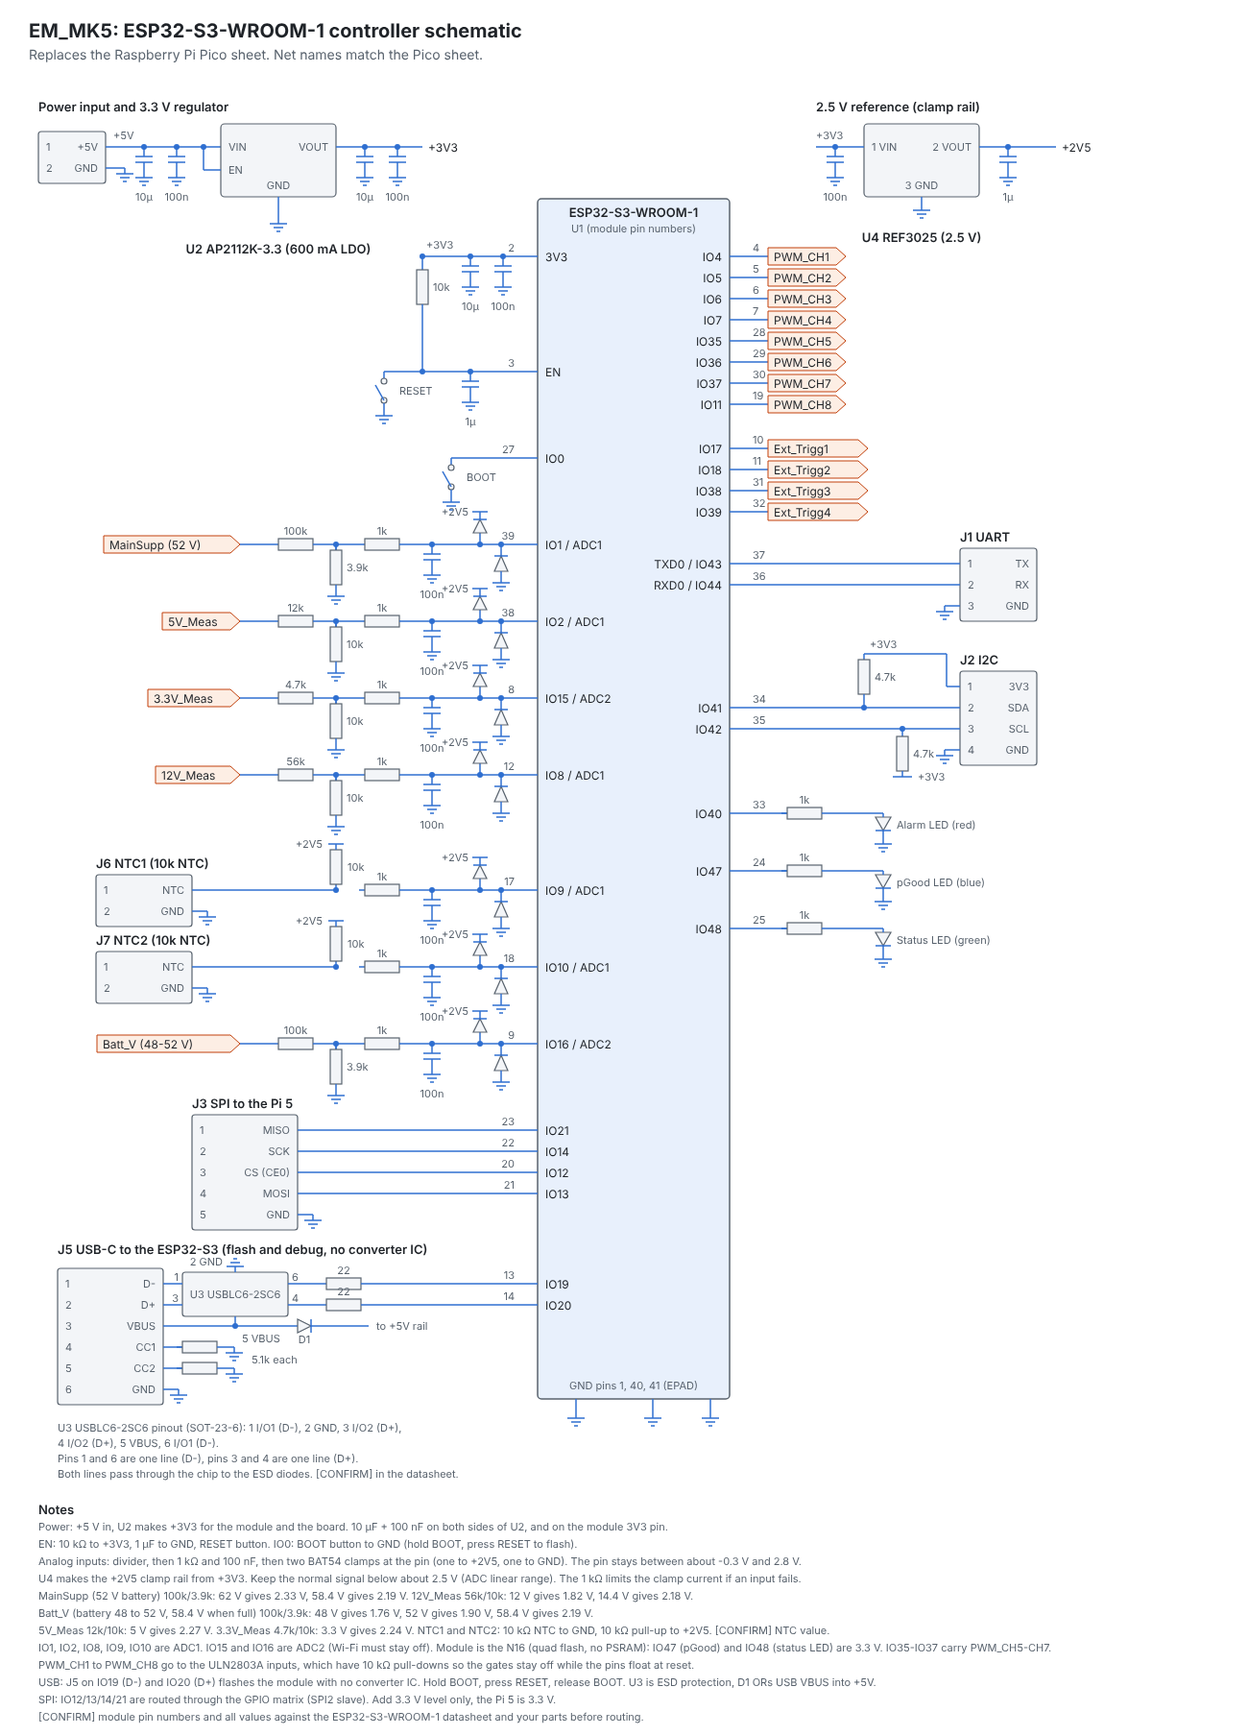
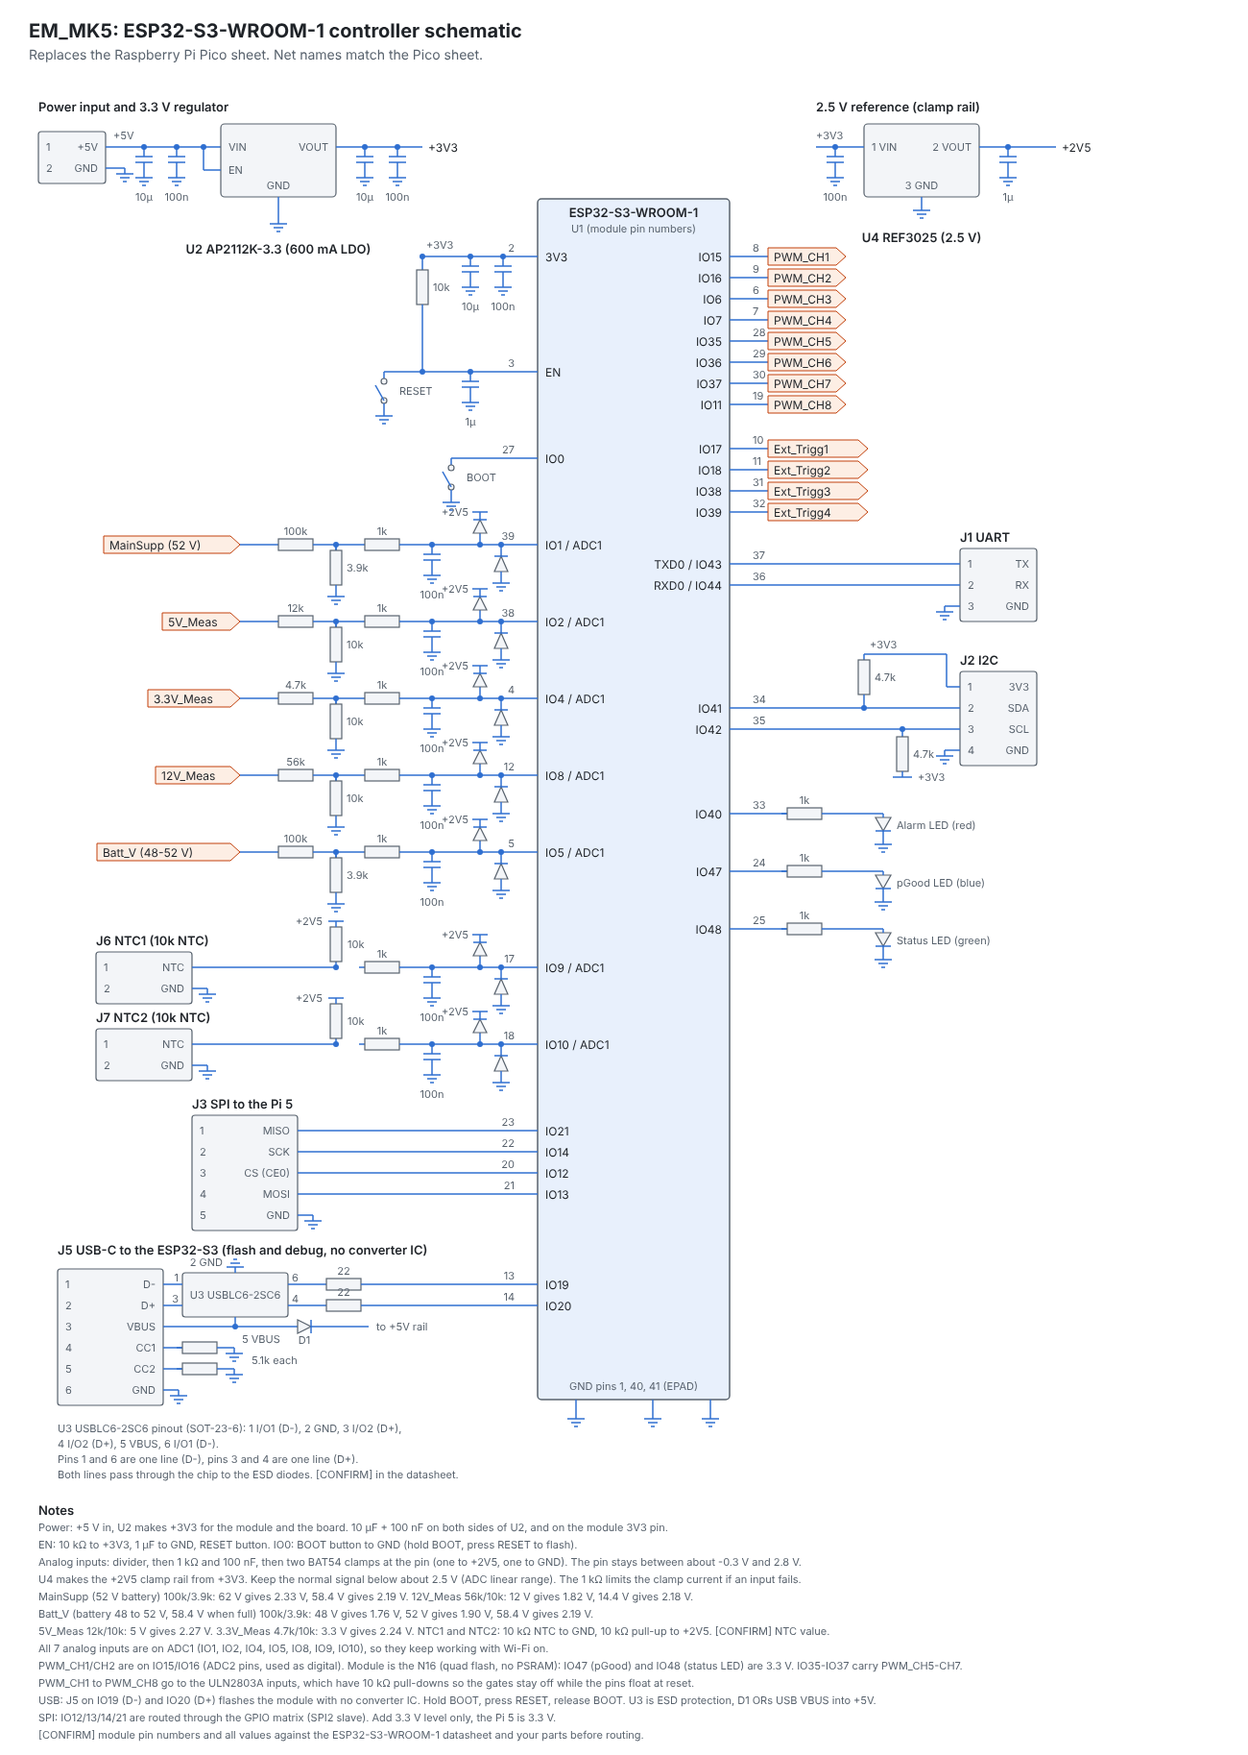
ESP32-S3: all analog inputs on ADC1; PWM_CH1/CH2 moved to IO15/IO16
Claude-Session: https://claude.ai/code/session_0174MNEmDaTV8DPD2QnVHENo

diff --git a/ESP32_S3_schematic.html b/ESP32_S3_schematic.html
@@ -8,7 +8,7 @@ svg{width:100%;max-width:1300px;height:auto;display:block;margin:0 auto}
 .c{stroke:var(--bd);stroke-width:1.2;fill:var(--box)}.m{stroke:var(--bd);stroke-width:1.5;fill:var(--mod)}
 .p{stroke:var(--pb);stroke-width:1;fill:var(--port)}
 .t{font-size:12px;fill:var(--t)}.s{font-size:11px;fill:var(--m)}.th{font-size:13px;font-weight:600;fill:var(--t)}.pt{font-size:12px;fill:var(--t)}
-</style></head><body><h1>EM_MK5: ESP32-S3-WROOM-1 controller schematic</h1><p class="d">Replaces the Raspberry Pi Pico sheet. Net names match the Pico sheet.</p><svg viewBox="0 0 1300 1730" role="img" aria-label="EM_MK5 ESP32-S3 controller schematic"><rect class="m" x="560" y="130" width="200" height="1250" rx="4"/>
+</style></head><body><h1>EM_MK5: ESP32-S3-WROOM-1 controller schematic</h1><p class="d">Replaces the Raspberry Pi Pico sheet. Net names match the Pico sheet.</p><svg viewBox="0 0 1300 1750" role="img" aria-label="EM_MK5 ESP32-S3 controller schematic"><rect class="m" x="560" y="130" width="200" height="1250" rx="4"/>
 <text class="th" x="660.0" y="144" text-anchor="middle" dominant-baseline="central">ESP32-S3-WROOM-1</text>
 <text class="s" x="660.0" y="161" text-anchor="middle" dominant-baseline="central">U1 (module pin numbers)</text>
 <line class="w" x1="600" y1="1380" x2="600" y2="1394"/>
@@ -307,8 +307,8 @@ svg{width:100%;max-width:1300px;height:auto;display:block;margin:0 auto}
 <line class="w" x1="492" y1="536" x2="508" y2="536"/>
 <text class="s" x="488" y="536" text-anchor="end" dominant-baseline="central">+2V5</text>
 <line class="w" x1="540" y1="650" x2="560" y2="650"/>
-<text class="t" x="568" y="650" text-anchor="start" dominant-baseline="central">IO15 / ADC2</text>
-<text class="s" x="536" y="641" text-anchor="end" dominant-baseline="central">8</text>
+<text class="t" x="568" y="650" text-anchor="start" dominant-baseline="central">IO4 / ADC1</text>
+<text class="s" x="536" y="641" text-anchor="end" dominant-baseline="central">4</text>
 <polygon class="p" points="154,641 240,641 250,650 240,659 154,659"/>
 <text class="pt" x="160" y="650" text-anchor="start" dominant-baseline="central">3.3V_Meas</text>
 <line class="w" x1="250" y1="650" x2="284" y2="650"/>
@@ -410,64 +410,63 @@ svg{width:100%;max-width:1300px;height:auto;display:block;margin:0 auto}
 <line class="w" x1="500" y1="704" x2="500" y2="696"/>
 <line class="w" x1="492" y1="696" x2="508" y2="696"/>
 <text class="s" x="488" y="696" text-anchor="end" dominant-baseline="central">+2V5</text>
-<line class="w" x1="540" y1="850" x2="560" y2="850"/>
-<text class="t" x="568" y="850" text-anchor="start" dominant-baseline="central">IO9 / ADC1</text>
-<text class="s" x="536" y="841" text-anchor="end" dominant-baseline="central">17</text>
-<rect class="c" x="100" y="834" width="100" height="54" rx="3"/>
-<text class="th" x="100" y="822" text-anchor="start" dominant-baseline="central">J6 NTC1 (10k NTC)</text>
-<text class="s" x="108" y="850" text-anchor="start" dominant-baseline="central">1</text>
-<text class="s" x="192" y="850" text-anchor="end" dominant-baseline="central">NTC</text>
-<text class="s" x="108" y="872" text-anchor="start" dominant-baseline="central">2</text>
-<text class="s" x="192" y="872" text-anchor="end" dominant-baseline="central">GND</text>
-<line class="w" x1="200" y1="850" x2="350" y2="850"/>
-<circle class="d" cx="350" cy="850" r="3"/>
-<line class="w" x1="200" y1="872" x2="216" y2="872"/>
-<line class="w" x1="216" y1="872" x2="216" y2="878"/>
-<line class="w" x1="207" y1="878" x2="225" y2="878"/>
-<line class="w" x1="211" y1="882" x2="221" y2="882"/>
-<line class="w" x1="214" y1="886" x2="218" y2="886"/>
-<line class="w" x1="350" y1="850" x2="350" y2="844"/>
-<rect class="c" x="344" y="808" width="12" height="36"/>
-<line class="w" x1="350" y1="808" x2="350" y2="802"/>
-<line class="w" x1="342" y1="802" x2="358" y2="802"/>
-<text class="s" x="336" y="802" text-anchor="end" dominant-baseline="central">+2V5</text>
-<text class="s" x="362" y="826" text-anchor="start" dominant-baseline="central">10k</text>
-<line class="w" x1="374" y1="850" x2="380" y2="850"/>
-<rect class="c" x="380" y="844" width="36" height="12"/>
-<line class="w" x1="416" y1="850" x2="422" y2="850"/>
-<text class="s" x="398" y="836" text-anchor="middle" dominant-baseline="central">1k</text>
-<line class="w" x1="422" y1="850" x2="540" y2="850"/>
-<circle class="d" cx="450" cy="850" r="3"/>
-<line class="w" x1="450" y1="850" x2="450" y2="860"/>
-<line class="w" x1="441" y1="860" x2="459" y2="860"/>
-<line class="w" x1="441" y1="866" x2="459" y2="866"/>
-<line class="w" x1="450" y1="866" x2="450" y2="876"/>
-<line class="w" x1="450" y1="876" x2="450" y2="882"/>
-<line class="w" x1="441" y1="882" x2="459" y2="882"/>
-<line class="w" x1="445" y1="886" x2="455" y2="886"/>
-<line class="w" x1="448" y1="890" x2="452" y2="890"/>
-<text class="s" x="450" y="902" text-anchor="middle" dominant-baseline="central">100n</text>
-<circle class="d" cx="500" cy="850" r="3"/>
-<circle class="d" cx="522" cy="850" r="3"/>
-<line class="w" x1="522" y1="850" x2="522" y2="862"/>
-<polygon class="c" points="515,878 529,878 522,862"/>
-<line class="w" x1="515" y1="862" x2="529" y2="862"/>
-<line class="w" x1="522" y1="878" x2="522" y2="884"/>
-<line class="w" x1="522" y1="884" x2="522" y2="890"/>
-<line class="w" x1="513" y1="890" x2="531" y2="890"/>
-<line class="w" x1="517" y1="894" x2="527" y2="894"/>
-<line class="w" x1="520" y1="898" x2="524" y2="898"/>
-<line class="w" x1="500" y1="850" x2="500" y2="838"/>
-<polygon class="c" points="493,838 507,838 500,824"/>
-<line class="w" x1="493" y1="824" x2="507" y2="824"/>
-<line class="w" x1="500" y1="824" x2="500" y2="816"/>
-<line class="w" x1="492" y1="816" x2="508" y2="816"/>
-<text class="s" x="488" y="816" text-anchor="end" dominant-baseline="central">+2V5</text>
+<line class="w" x1="540" y1="810" x2="560" y2="810"/>
+<text class="t" x="568" y="810" text-anchor="start" dominant-baseline="central">IO5 / ADC1</text>
+<text class="s" x="536" y="801" text-anchor="end" dominant-baseline="central">5</text>
+<polygon class="p" points="101,801 240,801 250,810 240,819 101,819"/>
+<text class="pt" x="107" y="810" text-anchor="start" dominant-baseline="central">Batt_V (48-52 V)</text>
+<line class="w" x1="250" y1="810" x2="284" y2="810"/>
+<line class="w" x1="284" y1="810" x2="290" y2="810"/>
+<rect class="c" x="290" y="804" width="36" height="12"/>
+<line class="w" x1="326" y1="810" x2="332" y2="810"/>
+<text class="s" x="308" y="796" text-anchor="middle" dominant-baseline="central">100k</text>
+<line class="w" x1="332" y1="810" x2="374" y2="810"/>
+<circle class="d" cx="350" cy="810" r="3"/>
+<line class="w" x1="350" y1="810" x2="350" y2="816"/>
+<line class="w" x1="350" y1="810" x2="350" y2="816"/>
+<rect class="c" x="344" y="816" width="12" height="36"/>
+<line class="w" x1="350" y1="852" x2="350" y2="858"/>
+<text class="s" x="361" y="834" text-anchor="start" dominant-baseline="central">3.9k</text>
+<line class="w" x1="350" y1="858" x2="350" y2="864"/>
+<line class="w" x1="341" y1="864" x2="359" y2="864"/>
+<line class="w" x1="345" y1="868" x2="355" y2="868"/>
+<line class="w" x1="348" y1="872" x2="352" y2="872"/>
+<line class="w" x1="374" y1="810" x2="380" y2="810"/>
+<rect class="c" x="380" y="804" width="36" height="12"/>
+<line class="w" x1="416" y1="810" x2="422" y2="810"/>
+<text class="s" x="398" y="796" text-anchor="middle" dominant-baseline="central">1k</text>
+<line class="w" x1="422" y1="810" x2="540" y2="810"/>
+<circle class="d" cx="450" cy="810" r="3"/>
+<line class="w" x1="450" y1="810" x2="450" y2="820"/>
+<line class="w" x1="441" y1="820" x2="459" y2="820"/>
+<line class="w" x1="441" y1="826" x2="459" y2="826"/>
+<line class="w" x1="450" y1="826" x2="450" y2="836"/>
+<line class="w" x1="450" y1="836" x2="450" y2="842"/>
+<line class="w" x1="441" y1="842" x2="459" y2="842"/>
+<line class="w" x1="445" y1="846" x2="455" y2="846"/>
+<line class="w" x1="448" y1="850" x2="452" y2="850"/>
+<text class="s" x="450" y="862" text-anchor="middle" dominant-baseline="central">100n</text>
+<circle class="d" cx="500" cy="810" r="3"/>
+<circle class="d" cx="522" cy="810" r="3"/>
+<line class="w" x1="522" y1="810" x2="522" y2="822"/>
+<polygon class="c" points="515,838 529,838 522,822"/>
+<line class="w" x1="515" y1="822" x2="529" y2="822"/>
+<line class="w" x1="522" y1="838" x2="522" y2="844"/>
+<line class="w" x1="522" y1="844" x2="522" y2="850"/>
+<line class="w" x1="513" y1="850" x2="531" y2="850"/>
+<line class="w" x1="517" y1="854" x2="527" y2="854"/>
+<line class="w" x1="520" y1="858" x2="524" y2="858"/>
+<line class="w" x1="500" y1="810" x2="500" y2="798"/>
+<polygon class="c" points="493,798 507,798 500,784"/>
+<line class="w" x1="493" y1="784" x2="507" y2="784"/>
+<line class="w" x1="500" y1="784" x2="500" y2="776"/>
+<line class="w" x1="492" y1="776" x2="508" y2="776"/>
+<text class="s" x="488" y="776" text-anchor="end" dominant-baseline="central">+2V5</text>
 <line class="w" x1="540" y1="930" x2="560" y2="930"/>
-<text class="t" x="568" y="930" text-anchor="start" dominant-baseline="central">IO10 / ADC1</text>
-<text class="s" x="536" y="921" text-anchor="end" dominant-baseline="central">18</text>
+<text class="t" x="568" y="930" text-anchor="start" dominant-baseline="central">IO9 / ADC1</text>
+<text class="s" x="536" y="921" text-anchor="end" dominant-baseline="central">17</text>
 <rect class="c" x="100" y="914" width="100" height="54" rx="3"/>
-<text class="th" x="100" y="902" text-anchor="start" dominant-baseline="central">J7 NTC2 (10k NTC)</text>
+<text class="th" x="100" y="902" text-anchor="start" dominant-baseline="central">J6 NTC1 (10k NTC)</text>
 <text class="s" x="108" y="930" text-anchor="start" dominant-baseline="central">1</text>
 <text class="s" x="192" y="930" text-anchor="end" dominant-baseline="central">NTC</text>
 <text class="s" x="108" y="952" text-anchor="start" dominant-baseline="central">2</text>
@@ -517,26 +516,27 @@ svg{width:100%;max-width:1300px;height:auto;display:block;margin:0 auto}
 <line class="w" x1="492" y1="896" x2="508" y2="896"/>
 <text class="s" x="488" y="896" text-anchor="end" dominant-baseline="central">+2V5</text>
 <line class="w" x1="540" y1="1010" x2="560" y2="1010"/>
-<text class="t" x="568" y="1010" text-anchor="start" dominant-baseline="central">IO16 / ADC2</text>
-<text class="s" x="536" y="1001" text-anchor="end" dominant-baseline="central">9</text>
-<polygon class="p" points="101,1001 240,1001 250,1010 240,1019 101,1019"/>
-<text class="pt" x="107" y="1010" text-anchor="start" dominant-baseline="central">Batt_V (48-52 V)</text>
-<line class="w" x1="250" y1="1010" x2="284" y2="1010"/>
-<line class="w" x1="284" y1="1010" x2="290" y2="1010"/>
-<rect class="c" x="290" y="1004" width="36" height="12"/>
-<line class="w" x1="326" y1="1010" x2="332" y2="1010"/>
-<text class="s" x="308" y="996" text-anchor="middle" dominant-baseline="central">100k</text>
-<line class="w" x1="332" y1="1010" x2="374" y2="1010"/>
+<text class="t" x="568" y="1010" text-anchor="start" dominant-baseline="central">IO10 / ADC1</text>
+<text class="s" x="536" y="1001" text-anchor="end" dominant-baseline="central">18</text>
+<rect class="c" x="100" y="994" width="100" height="54" rx="3"/>
+<text class="th" x="100" y="982" text-anchor="start" dominant-baseline="central">J7 NTC2 (10k NTC)</text>
+<text class="s" x="108" y="1010" text-anchor="start" dominant-baseline="central">1</text>
+<text class="s" x="192" y="1010" text-anchor="end" dominant-baseline="central">NTC</text>
+<text class="s" x="108" y="1032" text-anchor="start" dominant-baseline="central">2</text>
+<text class="s" x="192" y="1032" text-anchor="end" dominant-baseline="central">GND</text>
+<line class="w" x1="200" y1="1010" x2="350" y2="1010"/>
 <circle class="d" cx="350" cy="1010" r="3"/>
-<line class="w" x1="350" y1="1010" x2="350" y2="1016"/>
-<line class="w" x1="350" y1="1010" x2="350" y2="1016"/>
-<rect class="c" x="344" y="1016" width="12" height="36"/>
-<line class="w" x1="350" y1="1052" x2="350" y2="1058"/>
-<text class="s" x="361" y="1034" text-anchor="start" dominant-baseline="central">3.9k</text>
-<line class="w" x1="350" y1="1058" x2="350" y2="1064"/>
-<line class="w" x1="341" y1="1064" x2="359" y2="1064"/>
-<line class="w" x1="345" y1="1068" x2="355" y2="1068"/>
-<line class="w" x1="348" y1="1072" x2="352" y2="1072"/>
+<line class="w" x1="200" y1="1032" x2="216" y2="1032"/>
+<line class="w" x1="216" y1="1032" x2="216" y2="1038"/>
+<line class="w" x1="207" y1="1038" x2="225" y2="1038"/>
+<line class="w" x1="211" y1="1042" x2="221" y2="1042"/>
+<line class="w" x1="214" y1="1046" x2="218" y2="1046"/>
+<line class="w" x1="350" y1="1010" x2="350" y2="1004"/>
+<rect class="c" x="344" y="968" width="12" height="36"/>
+<line class="w" x1="350" y1="968" x2="350" y2="962"/>
+<line class="w" x1="342" y1="962" x2="358" y2="962"/>
+<text class="s" x="336" y="962" text-anchor="end" dominant-baseline="central">+2V5</text>
+<text class="s" x="362" y="986" text-anchor="start" dominant-baseline="central">10k</text>
 <line class="w" x1="374" y1="1010" x2="380" y2="1010"/>
 <rect class="c" x="380" y="1004" width="36" height="12"/>
 <line class="w" x1="416" y1="1010" x2="422" y2="1010"/>
@@ -604,14 +604,14 @@ svg{width:100%;max-width:1300px;height:auto;display:block;margin:0 auto}
 <line class="w" x1="324" y1="912" x2="328" y2="912"/>
 </g>
 <line class="w" x1="760" y1="190" x2="780" y2="190"/>
-<text class="t" x="752" y="190" text-anchor="end" dominant-baseline="central">IO4</text>
-<text class="s" x="784" y="181" text-anchor="start" dominant-baseline="central">4</text>
+<text class="t" x="752" y="190" text-anchor="end" dominant-baseline="central">IO15</text>
+<text class="s" x="784" y="181" text-anchor="start" dominant-baseline="central">8</text>
 <line class="w" x1="780" y1="190" x2="800" y2="190"/>
 <polygon class="p" points="800,181 871,181 881,190 871,199 800,199"/>
 <text class="pt" x="806" y="190" text-anchor="start" dominant-baseline="central">PWM_CH1</text>
 <line class="w" x1="760" y1="212" x2="780" y2="212"/>
-<text class="t" x="752" y="212" text-anchor="end" dominant-baseline="central">IO5</text>
-<text class="s" x="784" y="203" text-anchor="start" dominant-baseline="central">5</text>
+<text class="t" x="752" y="212" text-anchor="end" dominant-baseline="central">IO16</text>
+<text class="s" x="784" y="203" text-anchor="start" dominant-baseline="central">9</text>
 <line class="w" x1="780" y1="212" x2="800" y2="212"/>
 <polygon class="p" points="800,203 871,203 881,212 871,221 800,221"/>
 <text class="pt" x="806" y="212" text-anchor="start" dominant-baseline="central">PWM_CH2</text>
@@ -886,8 +886,9 @@ svg{width:100%;max-width:1300px;height:auto;display:block;margin:0 auto}
 <text class="s" x="40" y="1585" text-anchor="start" dominant-baseline="central">MainSupp (52 V battery) 100k/3.9k: 62 V gives 2.33 V, 58.4 V gives 2.19 V. 12V_Meas 56k/10k: 12 V gives 1.82 V, 14.4 V gives 2.18 V.</text>
 <text class="s" x="40" y="1603" text-anchor="start" dominant-baseline="central">Batt_V (battery 48 to 52 V, 58.4 V when full) 100k/3.9k: 48 V gives 1.76 V, 52 V gives 1.90 V, 58.4 V gives 2.19 V.</text>
 <text class="s" x="40" y="1621" text-anchor="start" dominant-baseline="central">5V_Meas 12k/10k: 5 V gives 2.27 V. 3.3V_Meas 4.7k/10k: 3.3 V gives 2.24 V. NTC1 and NTC2: 10 kΩ NTC to GND, 10 kΩ pull-up to +2V5. [CONFIRM] NTC value.</text>
-<text class="s" x="40" y="1639" text-anchor="start" dominant-baseline="central">IO1, IO2, IO8, IO9, IO10 are ADC1. IO15 and IO16 are ADC2 (Wi-Fi must stay off). Module is the N16 (quad flash, no PSRAM): IO47 (pGood) and IO48 (status LED) are 3.3 V. IO35-IO37 carry PWM_CH5-CH7.</text>
-<text class="s" x="40" y="1657" text-anchor="start" dominant-baseline="central">PWM_CH1 to PWM_CH8 go to the ULN2803A inputs, which have 10 kΩ pull-downs so the gates stay off while the pins float at reset.</text>
-<text class="s" x="40" y="1675" text-anchor="start" dominant-baseline="central">USB: J5 on IO19 (D-) and IO20 (D+) flashes the module with no converter IC. Hold BOOT, press RESET, release BOOT. U3 is ESD protection, D1 ORs USB VBUS into +5V.</text>
-<text class="s" x="40" y="1693" text-anchor="start" dominant-baseline="central">SPI: IO12/13/14/21 are routed through the GPIO matrix (SPI2 slave). Add 3.3 V level only, the Pi 5 is 3.3 V.</text>
-<text class="s" x="40" y="1711" text-anchor="start" dominant-baseline="central">[CONFIRM] module pin numbers and all values against the ESP32-S3-WROOM-1 datasheet and your parts before routing.</text></svg></body></html>
+<text class="s" x="40" y="1639" text-anchor="start" dominant-baseline="central">All 7 analog inputs are on ADC1 (IO1, IO2, IO4, IO5, IO8, IO9, IO10), so they keep working with Wi-Fi on.</text>
+<text class="s" x="40" y="1657" text-anchor="start" dominant-baseline="central">PWM_CH1/CH2 are on IO15/IO16 (ADC2 pins, used as digital). Module is the N16 (quad flash, no PSRAM): IO47 (pGood) and IO48 (status LED) are 3.3 V. IO35-IO37 carry PWM_CH5-CH7.</text>
+<text class="s" x="40" y="1675" text-anchor="start" dominant-baseline="central">PWM_CH1 to PWM_CH8 go to the ULN2803A inputs, which have 10 kΩ pull-downs so the gates stay off while the pins float at reset.</text>
+<text class="s" x="40" y="1693" text-anchor="start" dominant-baseline="central">USB: J5 on IO19 (D-) and IO20 (D+) flashes the module with no converter IC. Hold BOOT, press RESET, release BOOT. U3 is ESD protection, D1 ORs USB VBUS into +5V.</text>
+<text class="s" x="40" y="1711" text-anchor="start" dominant-baseline="central">SPI: IO12/13/14/21 are routed through the GPIO matrix (SPI2 slave). Add 3.3 V level only, the Pi 5 is 3.3 V.</text>
+<text class="s" x="40" y="1729" text-anchor="start" dominant-baseline="central">[CONFIRM] module pin numbers and all values against the ESP32-S3-WROOM-1 datasheet and your parts before routing.</text></svg></body></html>

diff --git a/ESP32_S3_pin_to_pin.html b/ESP32_S3_pin_to_pin.html
@@ -48,12 +48,12 @@ svg{width:100%;max-width:980px;height:auto;display:block;margin:0 auto}
 <text class="t" x="38" y="111.0" dominant-baseline="central">pin 9 · GP6</text>
 <text class="s" x="272" y="111.0" text-anchor="end" dominant-baseline="central">PWM_CH1</text>
 <rect class="b g1" x="700" y="100" width="250" height="22" rx="4"/>
-<text class="t" x="708" y="111.0" dominant-baseline="central">IO4 · pin 4</text>
+<text class="t" x="708" y="111.0" dominant-baseline="central">IO15 · pin 8</text>
 <rect class="b g1" x="30" y="126" width="250" height="22" rx="4"/>
 <text class="t" x="38" y="137.0" dominant-baseline="central">pin 10 · GP7</text>
 <text class="s" x="272" y="137.0" text-anchor="end" dominant-baseline="central">PWM_CH2</text>
 <rect class="b g1" x="700" y="126" width="250" height="22" rx="4"/>
-<text class="t" x="708" y="137.0" dominant-baseline="central">IO5 · pin 5</text>
+<text class="t" x="708" y="137.0" dominant-baseline="central">IO16 · pin 9</text>
 <rect class="b g1" x="30" y="152" width="250" height="22" rx="4"/>
 <text class="t" x="38" y="163.0" dominant-baseline="central">pin 11 · GP8</text>
 <text class="s" x="272" y="163.0" text-anchor="end" dominant-baseline="central">PWM_CH3</text>

diff --git a/esp32/mcpwm_deadtime.c b/esp32/mcpwm_deadtime.c
@@ -2,7 +2,7 @@
   EM_MK5: 4 complementary PWM pairs with HARDWARE dead time on the ESP32-S3 (ESP-IDF v5.x, MCPWM).
 
   Pairs (see ESP32_S3_pinout.md):  A = Q1 gate, B = Q2 gate
-    pair 0: GPIO4  / GPIO5    PWM_CH1 / CH2  (MCPWM group 0, operator 0)
+    pair 0: GPIO15 / GPIO16   PWM_CH1 / CH2  (MCPWM group 0, operator 0)
     pair 1: GPIO6  / GPIO7    PWM_CH3 / CH4  (MCPWM group 0, operator 1)
     pair 2: GPIO35 / GPIO36  PWM_CH5 / CH6  (MCPWM group 0, operator 2)
     pair 3: GPIO37 / GPIO11  PWM_CH7 / CH8  (MCPWM group 1, operator 0)
@@ -29,8 +29,8 @@
 #define DUTY_MAX    0.90f
 
 #define NUM_PAIRS 4
-static const int pin_a[NUM_PAIRS] = {4, 6, 35, 37};
-static const int pin_b[NUM_PAIRS] = {5, 7, 36, 11};
+static const int pin_a[NUM_PAIRS] = {15, 6, 35, 37};
+static const int pin_b[NUM_PAIRS] = {16, 7, 36, 11};
 static const int group_of[NUM_PAIRS] = {0, 0, 0, 1};
 
 static mcpwm_timer_handle_t timer[2];

diff --git a/ESP32_S3_pinout.md b/ESP32_S3_pinout.md
@@ -39,3 +39,4 @@ ESP32-S3-WROOM-1 module datasheet before routing the board.
 - Analog protection: every analog input has 1 kΩ, 100 nF and two BAT54 clamps at the pin (one to +2V5, one to GND). U4 REF3025 makes the +2V5 rail from +3V3 (1 µF out).
 - Final analog map: IO1 MainSupp (52 V battery, 100k/3.9k), IO2 5V_Meas (12k/10k), IO15 3.3V_Meas (4.7k/10k, ADC2), IO8 12V_Meas (56k/10k), IO9 NTC1 and IO10 NTC2 (10 kΩ NTC to GND, 10 kΩ pull-up to +2V5). IO16 is spare. This replaces Analog_4 to Analog_7.
 - Batt_V (battery 48 to 52 V, 58.4 V full): IO16 (pin 9, ADC2), 100k/3.9k, 1 kΩ, 100 nF and the BAT54 clamps.
+- ADC1 only (Wi-Fi safe), final: IO1 MainSupp (52 V), IO2 5V_Meas, IO4 3.3V_Meas, IO5 Batt_V (48 to 52 V), IO8 12V_Meas, IO9 NTC1, IO10 NTC2. PWM_CH1/CH2 moved to IO15/IO16 (digital use of ADC2 pins), so pairs are IO15/IO16, IO6/IO7, IO35/IO36, IO37/IO11. This replaces the ADC2 assignments above.
